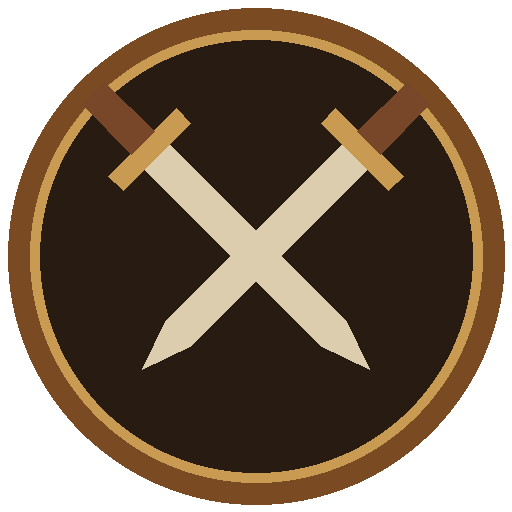
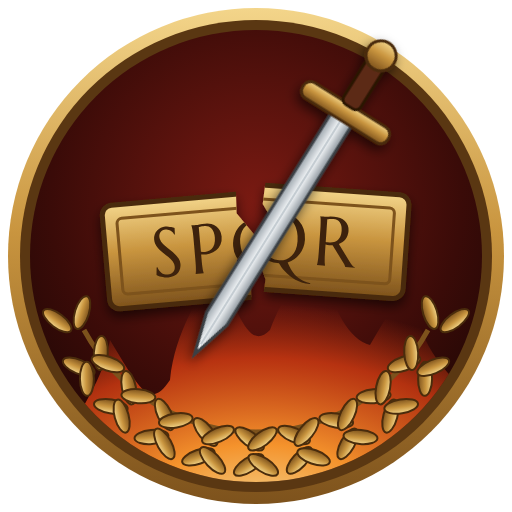
Renommer l'application en Roma Delenda Est, nouvelle icône
- nom de l'appli, de la fenêtre, du raccourci et de l'installeur : Roma Delenda Est
- icône : médaillon de bronze, plaque SPQR fendue par un glaive, flammes et laurier
- les sauvegardes restent dans le dossier de données « Bellum » (pas de perte)
- version = <version du jeu>.0.<numéro du passage> pour que toute nouvelle
  fabrication soit vue comme une mise à jour

Claude-Session: https://claude.ai/code/session_01TPDXJ8FzmfFMYoGo5UHRyF

diff --git a/installeur/main.js b/installeur/main.js
@@ -1,4 +1,4 @@
-// Bellum : coquille Electron autour des fichiers du jeu (jeu/index.html, bataille.html, naval.html).
+// Roma Delenda Est (ex-Bellum) : coquille Electron autour des fichiers du jeu (jeu/index.html, bataille.html, naval.html).
 const { app, BrowserWindow, shell, Menu, session, dialog } = require('electron');
 const path = require('path');
 
@@ -8,6 +8,12 @@ app.commandLine.appendSwitch('disable-renderer-backgrounding');
 app.commandLine.appendSwitch('disable-background-timer-throttling');
 app.commandLine.appendSwitch('ignore-gpu-blocklist');
 
+// Le jeu s'appelait « Bellum » : on garde ce dossier de données pour ne pas perdre
+// les sauvegardes (localStorage) des joueurs qui l'avaient déjà installé.
+app.setPath('userData', path.join(app.getPath('appData'), 'Bellum'));
+
+const TITRE = 'Roma Delenda Est';
+
 if (!app.requestSingleInstanceLock()) { app.quit(); }
 
 let win;
@@ -15,7 +21,7 @@ function creer() {
   win = new BrowserWindow({
     width: 1600, height: 900, minWidth: 1024, minHeight: 640,
     backgroundColor: '#1a140e', show: false, autoHideMenuBar: true,
-    title: 'Bellum',
+    title: TITRE,
     icon: path.join(__dirname, 'icone.png'),
     webPreferences: {
       backgroundThrottling: false,
@@ -25,6 +31,7 @@ function creer() {
     },
   });
   Menu.setApplicationMenu(null);
+  win.on('page-title-updated', (e) => e.preventDefault());
   win.once('ready-to-show', () => { win.maximize(); win.show(); });
 
   // Liens externes : navigateur du système. Pages du jeu : même fenêtre.
@@ -65,8 +72,8 @@ function verifierMiseAJour() {
   autoUpdater.on('update-downloaded', (info) => {
     if (!win) return;
     dialog.showMessageBox(win, {
-      type: 'info', title: 'Bellum', buttons: ['Redémarrer maintenant', 'Plus tard'], defaultId: 0, cancelId: 1,
-      message: 'Nouvelle version de Bellum prête (v' + String(info.version).split('.')[0] + ')',
+      type: 'info', title: TITRE, buttons: ['Redémarrer maintenant', 'Plus tard'], defaultId: 0, cancelId: 1,
+      message: 'Nouvelle version de Roma Delenda Est prête (v' + String(info.version).split('.')[0] + ')',
       detail: 'Redémarrez pour en profiter. Sinon, elle s\'installera à la fermeture du jeu. Vos sauvegardes sont conservées.',
     }).then((r) => { if (r.response === 0) autoUpdater.quitAndInstall(false, true); });
   });
